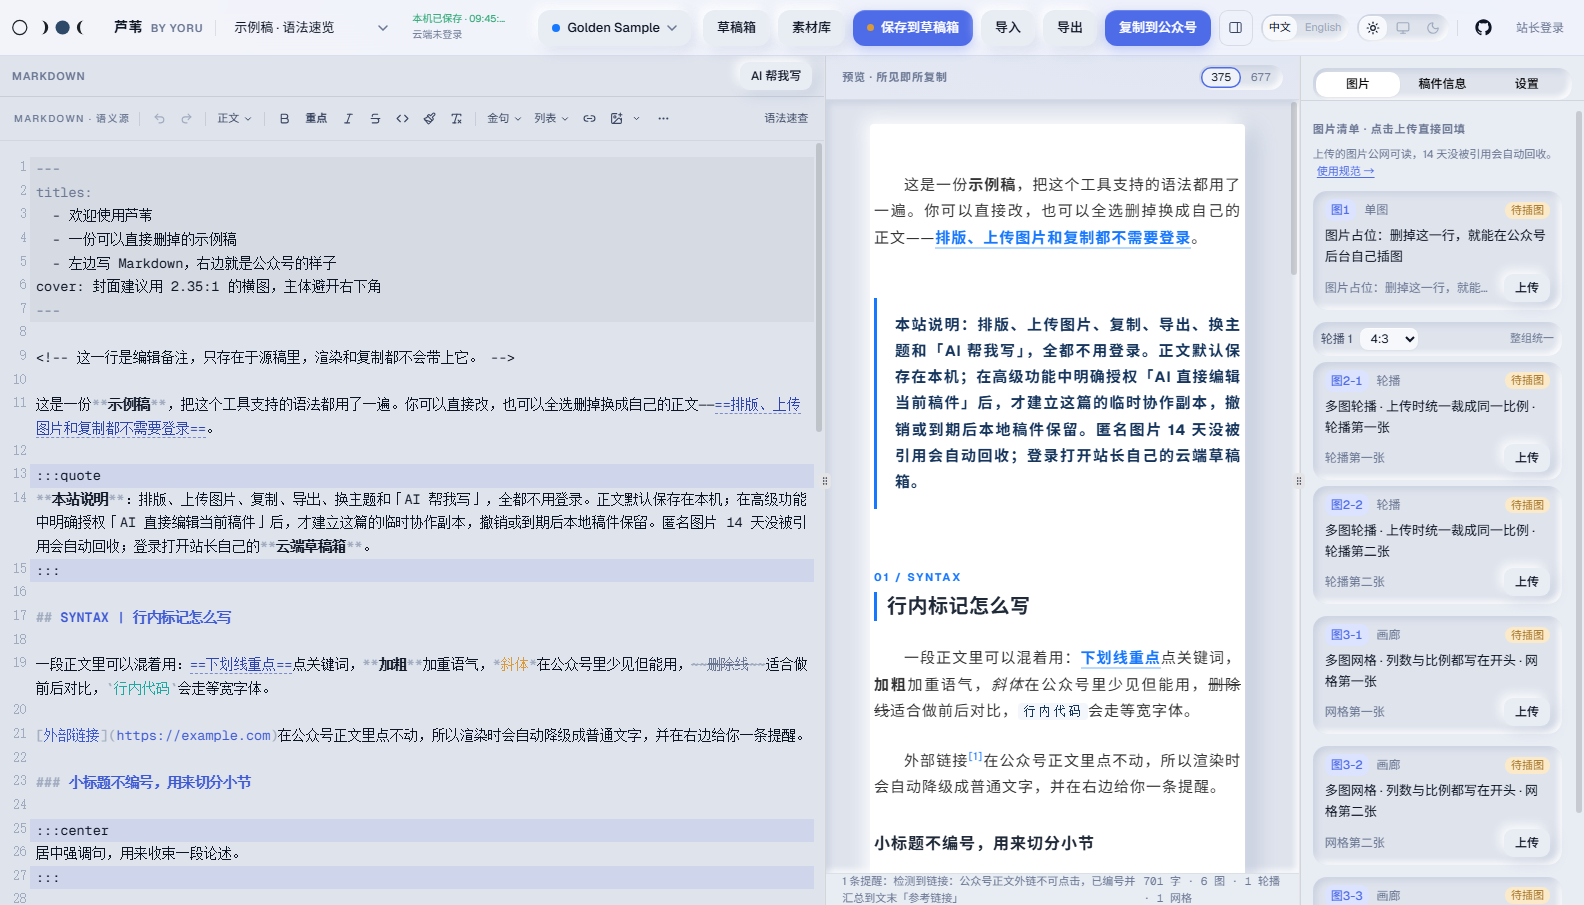
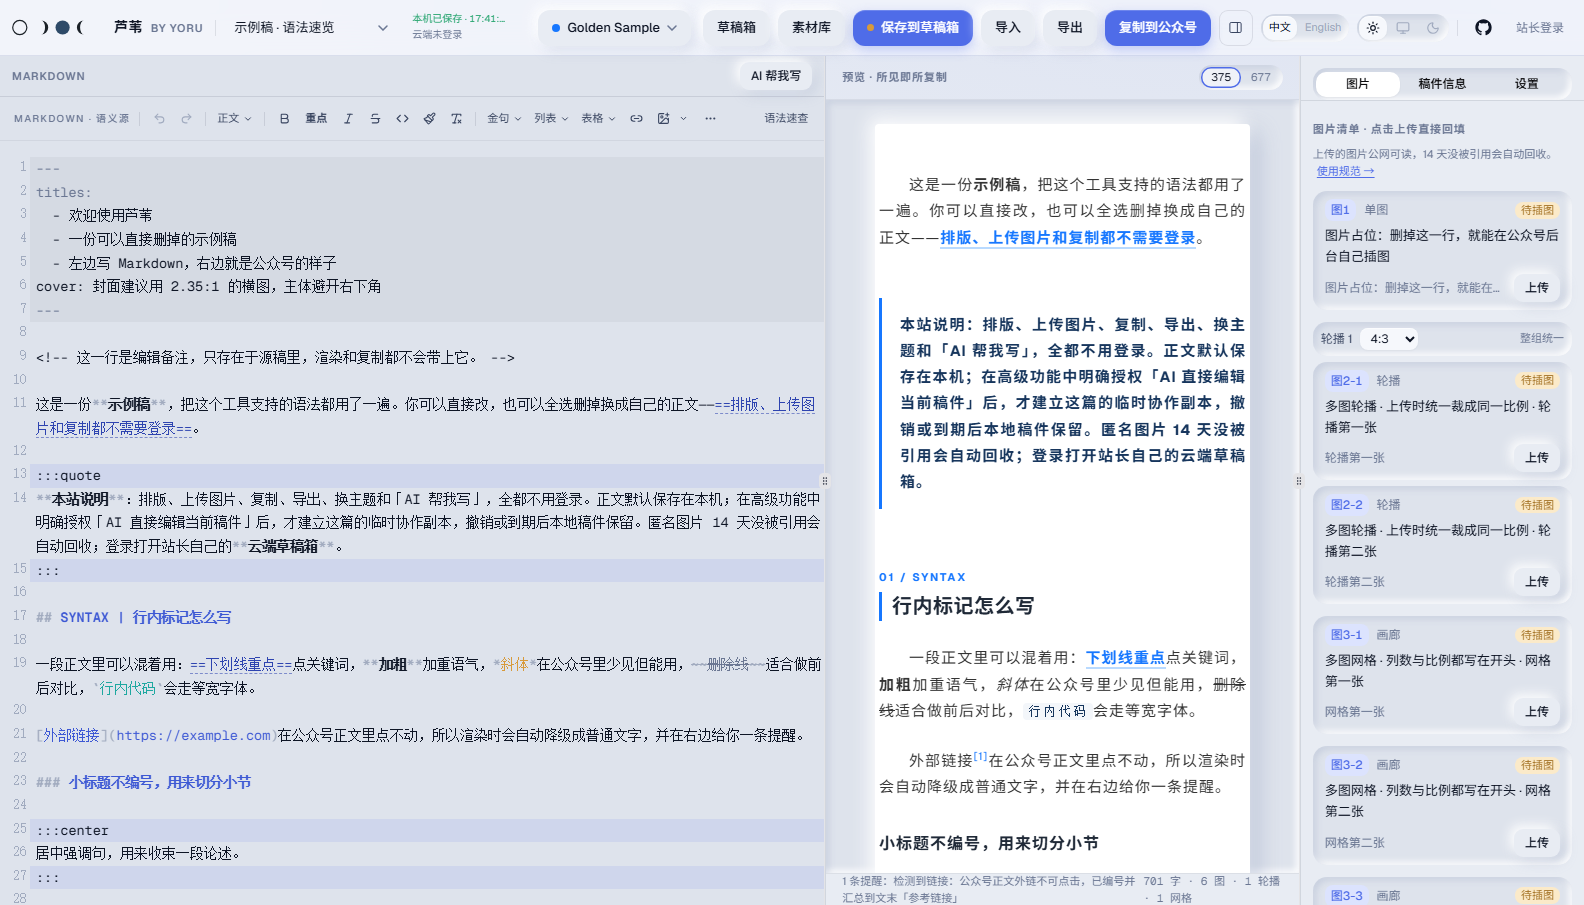
docs: bring the READMEs and screenshots up to date
The publish check, the toolbar's table alignment, the upload size options,
bundle imports, rich-text paste and the first-run tour all reached users
after the last README pass. Two statements were outdated: the three-column
layout needs a 1440px window now, and theme-card authors live behind the
source details rather than on the card face. The English README gains the
Agent API hash guard and the Terms' wording for content involving minors.

Re-shot editor-akari and editor-yoru (the toolbar gained a 表格 button) and
typeset-golden (the sample's quote block changed on 2026-10-10). HANDOFF
records the follow-up under the 2026-10-30 deploy note.

diff --git a/README_EN.md b/README_EN.md
@@ -15,7 +15,7 @@ However much AI is involved, the source remains ordinary Markdown: readable, edi
 
 [Theme library](https://wechat.yoru-and-akari.dev/themes) · [Writing Skill](https://wechat.yoru-and-akari.dev/skill.md) · [Acknowledgements](https://wechat.yoru-and-akari.dev/references)
 
-Made by Yoru, as a personal project that is continuously used and improved. The interface switches between Chinese and English (Chinese by default, remembered per browser); desktop browsers get three draggable columns, and narrow screens switch between Edit / Preview / Images & settings one pane at a time. If Reed is useful to you, a [GitHub Star](https://github.com/yoruuuchan/wechat-md-studio) is welcome.
+Made by Yoru, as a personal project that is continuously used and improved. The interface switches between Chinese and English (Chinese by default, remembered per browser); browsers at 1440px and wider get three draggable columns, and narrower windows switch between Edit / Preview / Images & settings one pane at a time. A five-step tour runs on the first visit and can be replayed from settings. If Reed is useful to you, a [GitHub Star](https://github.com/yoruuuchan/wechat-md-studio) is welcome.
 
 | Light · akari | Dark · yoru |
 |:--:|:--:|
@@ -66,13 +66,14 @@ flowchart LR
 
 - **<!-- gen:theme-count -->219 themes<!-- /gen:theme-count -->** with filters for style, complexity, color and source. Favorite templates, trial the current article, or compare up to three candidates side by side. Author, license and provenance are retained.
 - **Article-oriented Markdown**: numbered sections, highlights, pull quotes, quotation boxes, centered text, credits, tables, block equations and Mermaid diagrams.
-- **Images**: upload, compression, automatic or manual cropping, a media library, same-ratio carousels and two- to four-column galleries.
-- **Editing and preview**: CodeMirror, a Markdown toolbar, semantic format painter, syntax completion, synchronized scrolling and 375 / 677 preview widths. Light, dark and system UI modes.
+- **Images**: upload, compression (automatic, a 1–5 MB target, or the original file), automatic or manual cropping, a media library, same-ratio carousels and two- to four-column galleries.
+- **Editing and preview**: CodeMirror, a Markdown toolbar with per-column and whole-table alignment, semantic format painter, syntax completion, synchronized scrolling and 375 / 677 preview widths. Light, dark and system UI modes.
 - **Storage**: local draft protection, plus the site owner's cloud draft library after login, with synchronization and conflict handling.
-- **Import / export**: import Markdown and DOCX; export Markdown, article HTML, a complete preview page or a full document backup.
-- **Agent REST API**: a separate API and dependency-free Python client for pushing a draft, opening it for human editing and reading it back. This interface accesses the site owner's cloud documents, requires an Agent token, and needs browser login for its editor links. See [Agent API](docs/agent-api.md).
+- **Import / export**: import Markdown, DOCX and full document backups; rich text pasted from a web page or Word is converted to the article dialect. Export Markdown, article HTML, a complete preview page or a full document backup.
+- **Publish check**: before copying an article, exporting article HTML or exporting the full preview page, unfinished equations and diagrams, empty image slots and image URLs on the local machine or a private network are listed as blockers or warnings. A clean article goes straight through.
+- **Agent REST API**: a separate API and dependency-free Python client for pushing a draft, opening it for human editing and reading it back. Writes carry the hash from the read, so a stale version is rejected instead of silently overwritten. This interface accesses the site owner's cloud documents, requires an Agent token, and needs browser login for its editor links. See [Agent API](docs/agent-api.md).
 
-Every theme card renders the same sample article, so comparisons show the theme rather than different content. Switch to the current article to trial it, or put up to three candidates side by side; trying and comparing never edit the article or save a theme. Author, color and license information stay on each card.
+Every theme card renders the same sample article, so comparisons show the theme rather than different content. Switch to the current article to trial it, or put up to three candidates side by side; trying and comparing never edit the article or save a theme. Source project, color and license information stay on each card; the author appears under the card's source details.
 
 ![Theme library with filters and real rendered previews](docs/images/theme-library.png)
 
@@ -129,7 +130,7 @@ The rendering pipeline is `Markdown → semantic AST → Theme → fully inline 
 
 - **Drafts are local by default.** Enabling Remote MCP uploads a temporary copy of that document, valid for 24 hours by default. Only its visitor and token-bearing clients can access it. Revocation deletes it immediately; expiry blocks access immediately and scheduled cleanup removes it. The local draft remains. The owner's cloud library is a separate login-only feature.
 - **Uploaded images are public.** Anyone with an `/api/img/…` URL can view the file. Anonymous uploads have quotas and a default 14-day cleanup period; keeping a reference in a local draft does not guarantee indefinite hosting. Once WeChat has copied an image, the published article uses WeChat's stored version.
-- **Authors and publishers are responsible for content.** The service checks file types and quotas, and does not review article or image content. Illegal, exploitative, infringing or privacy-violating content, malware, scams and bulk file-storage abuse are prohibited. Files can be deleted and further uploads refused.
+- **Authors and publishers are responsible for content.** The service checks file types and quotas, and does not review article or image content. Illegal content, sexual, pornographic or exploitative content involving minors, infringing or privacy-violating content, malware, scams and bulk file-storage abuse are prohibited. Files can be deleted and further uploads refused.
 
 Read the [Terms of use](https://wechat.yoru-and-akari.dev/terms). Rights complaints go through the in-site feedback form ([wechat.yoru-and-akari.dev/feedback](https://wechat.yoru-and-akari.dev/feedback), or the editor sidebar under Settings → Feedback) with the exact URL, evidence of your rights or authorization, and contact details; no receiving address is published on the page — the server forwards the message. The hosted service may change, be limited or go offline; the software is provided without warranty. Self-hosters manage their own storage, domains and terms.
 

diff --git a/README.md b/README.md
@@ -14,7 +14,7 @@
 
 [主题库](https://wechat.yoru-and-akari.dev/themes) · [写作 Skill](https://wechat.yoru-and-akari.dev/skill.md) · [开源致谢](https://wechat.yoru-and-akari.dev/references)
 
-by Yoru。一个自己持续使用、慢慢完善的个人项目。界面支持「中文 / English」切换（默认中文，选择记在本机）；电脑浏览器上是可拖拽的三栏，窄屏则换成「编辑 / 预览 / 图片与设置」的单面板切换。觉得好用，欢迎在 [GitHub](https://github.com/yoruuuchan/wechat-md-studio) 留个 Star。
+by Yoru。一个自己持续使用、慢慢完善的个人项目。界面支持「中文 / English」切换（默认中文，选择记在本机）；1440px 以上的浏览器是可拖拽的三栏，更窄的窗口换成「编辑 / 预览 / 图片与设置」的单面板切换；第一次打开有五步使用引导，之后可在设置里重看。觉得好用，欢迎在 [GitHub](https://github.com/yoruuuchan/wechat-md-studio) 留个 Star。
 
 | akari（亮） | yoru（暗） |
 |:--:|:--:|
@@ -65,13 +65,14 @@ flowchart LR
 
 - **<!-- gen:theme-count -->219 套<!-- /gen:theme-count -->主题**：按风格、复杂度、色系与来源筛选，收藏常用模板，用同一份样稿比较效果；保留作者、License 与移植来源。
 - **公众号 Markdown 方言**：章节自动编号、重点标记、金句卡、引文框、居中句、署名、表格、公式和 Mermaid 图表。
-- **图片**：上传、压缩、自动 / 手动真实裁切、素材管理；同比例轮播与 2～4 列网格。
-- **编辑与预览**：CodeMirror、Markdown 工具栏、语义格式刷、语法补全、同步滚动、375 / 677 预览；界面支持浅色 / 深色 / 跟随系统。
+- **图片**：上传、压缩（自动 / 指定 1–5 MB / 原图）、自动 / 手动真实裁切、素材管理；同比例轮播与 2～4 列网格。
+- **编辑与预览**：CodeMirror、Markdown 工具栏（含表格按列 / 整表对齐）、语义格式刷、语法补全、同步滚动、375 / 677 预览；界面支持浅色 / 深色 / 跟随系统。
 - **保存**：本机防丢，登录后使用站长的云端草稿箱；本机与云端同步同样有冲突处理。
-- **导入导出**：Markdown、DOCX 导入；Markdown、正文 HTML、完整预览页与整包稿件备份导出。
+- **导入导出**：Markdown、DOCX 与整包备份导入，粘贴网页 / Word 富文本会自动转成公众号方言；Markdown、正文 HTML、完整预览页与整包稿件备份导出。
+- **发布前检查**：整篇复制、正文 HTML 与完整预览页导出之前，先列出未完成的公式与图表、空图片位、本机或内网的图片地址，按阻断 / 提醒分级；干净的稿件直接通过。
 - **Agent REST API**：保留独立的 REST API 和零依赖 Python 客户端，支持推稿 → 网页精修 → 读回结果，使用 hash 防止静默覆盖。它访问站长的云端稿件，需要单独配置 Agent 令牌，打开编辑链接需要浏览器登录；接入见 [Agent API](docs/agent-api.md)。
 
-模板库中的卡片都渲染同一份样稿，方便横向比较；也可以切到当前文章试排，把最多 3 套候选并排比较。试排和对比都不会改正文或保存主题，只有明确的「应用」才写入；作者、色系与许可证直接列在卡片上。
+模板库中的卡片都渲染同一份样稿，方便横向比较；也可以切到当前文章试排，把最多 3 套候选并排比较。试排和对比都不会改正文或保存主题，只有明确的「应用」才写入；来源项目、色系与许可证直接列在卡片上，作者点开「来源」查看。
 
 ![主题库：筛选模板并查看真实渲染结果](docs/images/theme-library.png)
 

diff --git a/HANDOFF.md b/HANDOFF.md
@@ -764,6 +764,9 @@ wsl -e bash -lc "bash '<umbrella repo root>/app/scripts/stage-to-tokyo.sh' '<脚
 > `index-B3S4qtGE.js`）；本次包已含其提交，未被回退，线上资产名因此是两者合并后的
 > `index-BjfnWPfC.js`。公开仓库随后按普通推送同步（`778f1ab..4195149`，历史未重写）。
 > 未做：README 截图（`docs/images/editor-*.png`）仍是旧工具栏。
+> **2026-10-30 后续**：README / README_EN 与三张截图已重做并随当日提交推送——
+> `editor-akari`、`editor-yoru` 换成本地构建重截的 1584×905（带上「表格」按钮），
+> `typeset-golden.png` 换成当前示例稿文案（1100×1474，1.6 倍截取），`verify:sources` 全过。
 
 ### 产品方向（用户明确拍板的）（用户明确拍板的）
 
